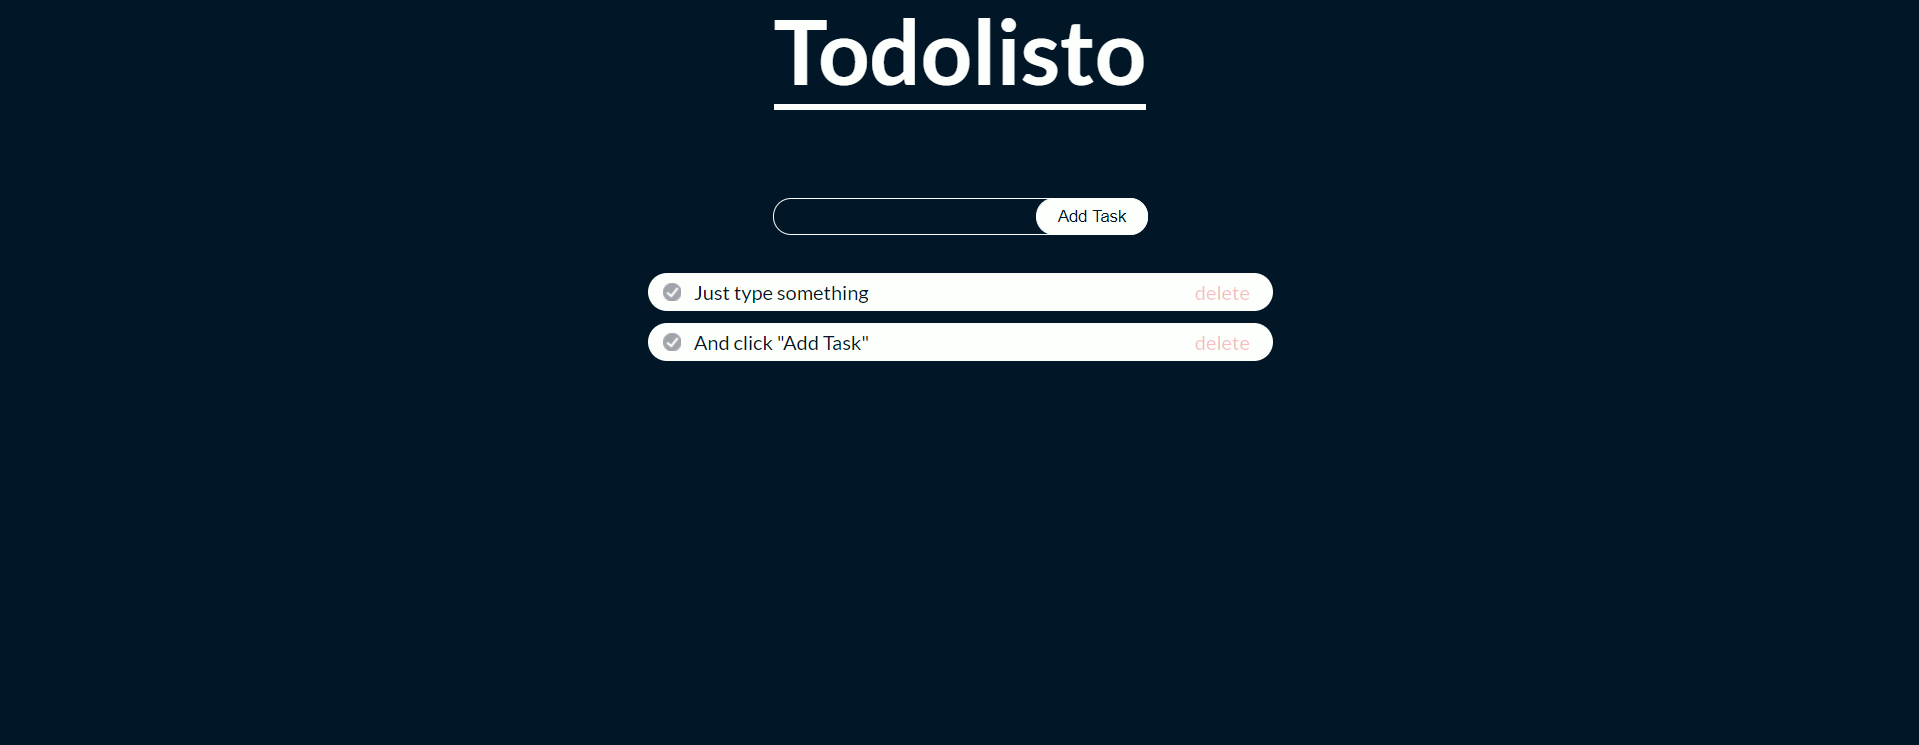
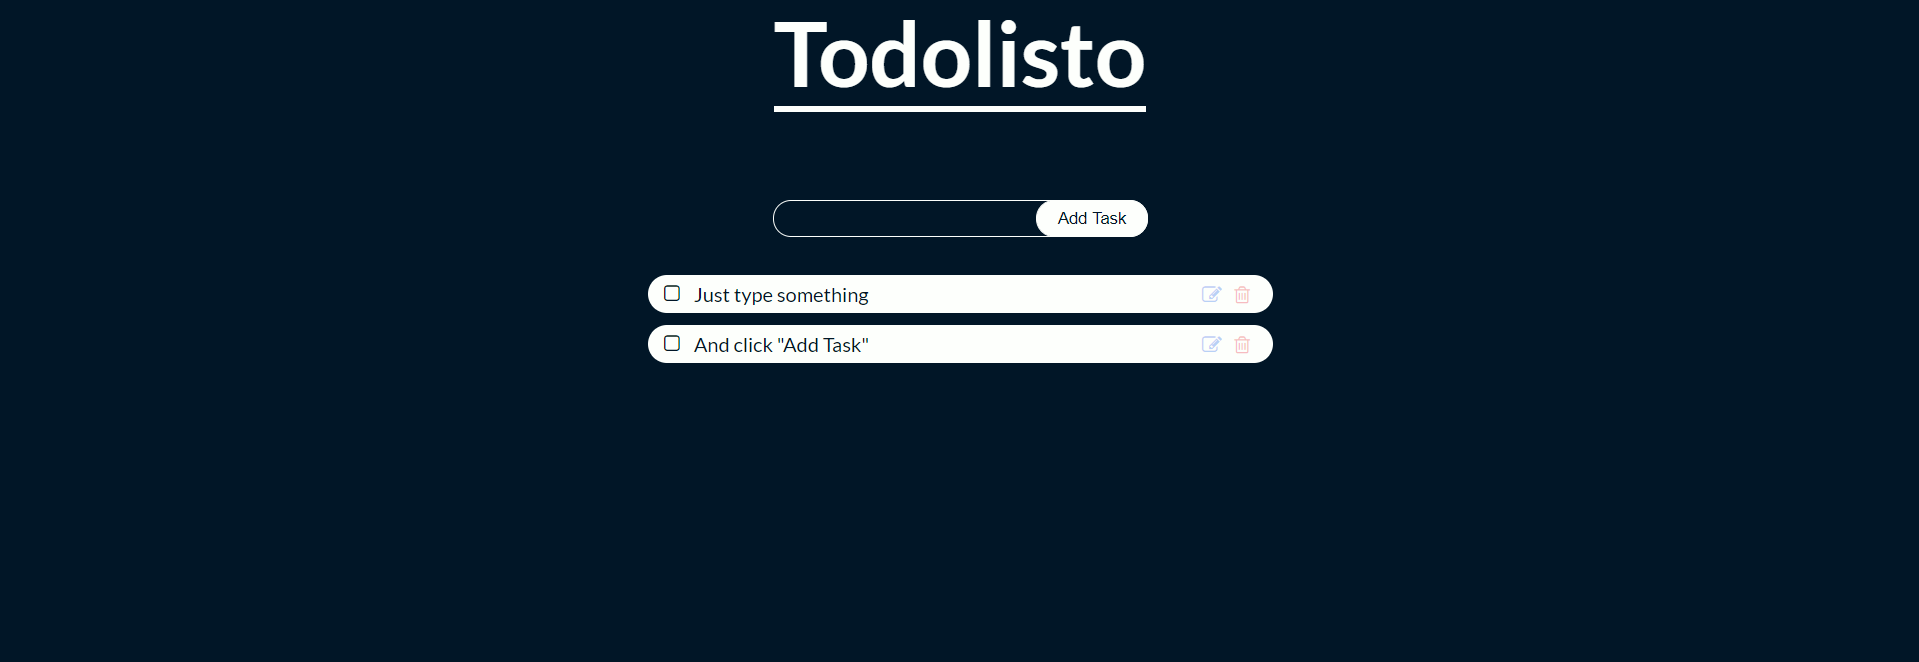
todo project changes

Changed region(s): [[0.3382, 0.2417, 0.6764, 0.574], [0.3997, 0.0, 0.6149, 0.1813]]

diff --git a/index.html b/index.html
@@ -83,7 +83,7 @@
             <div class="project__info">
               <div>
                 <div class="project__title">Todolisto</div>
-                <div class="project__subtext">To-Do list project where you can add, delete and complete tasks.</div>
+                <div class="project__subtext">To-Do list project where you can add, delete, edit and complete tasks.</div>
                 <div class="project__subtext">It's build with HTML, CSS, SASS, JavaScript, React and Gulp.</div>
               </div>
               <footer class="project__footer">
